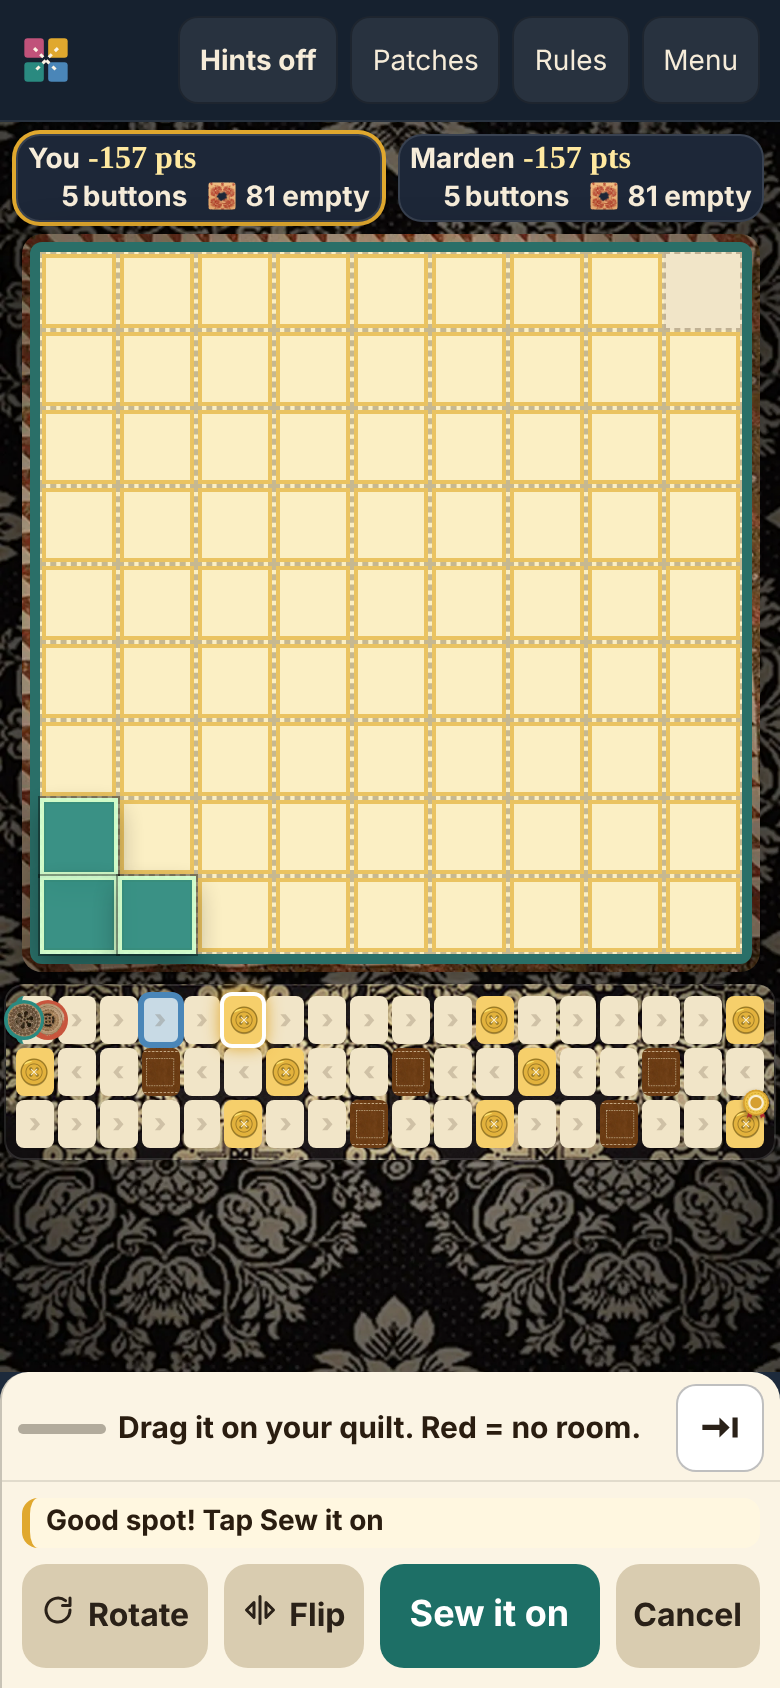
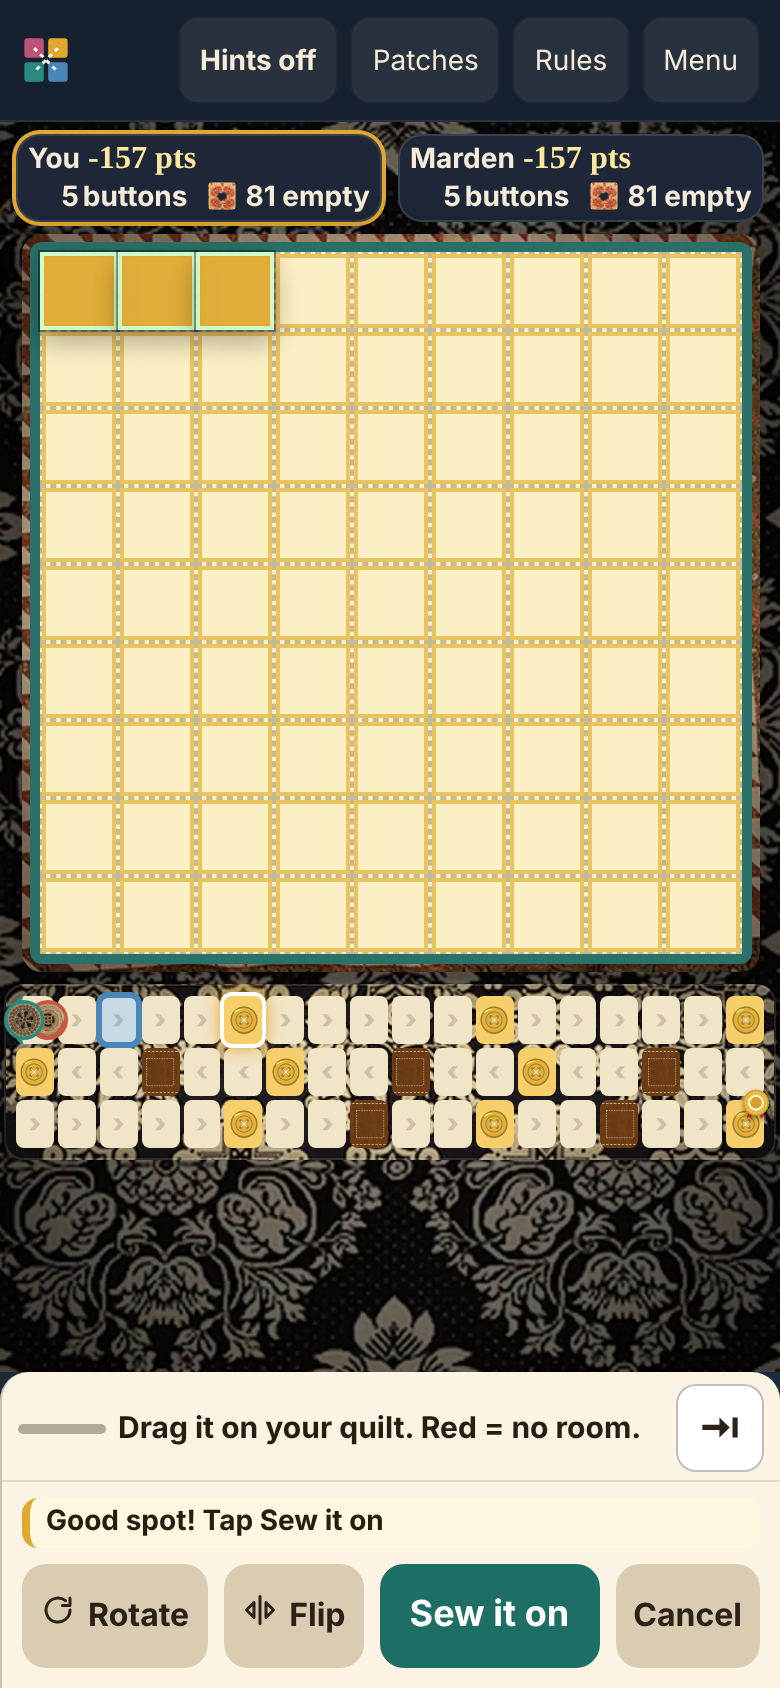
Stitchwise: drag a patch straight from its card onto the quilt
Press a glowing patch and drag: it becomes the ghost on your quilt and
snaps to the nearest legal spot on release; a plain tap still selects.
The first-turn hand moves off the prompt text. Adds the first-turn flow
shot (vs-benchmark.png).

diff --git a/games-src/stitchwise/src/ui2.js b/games-src/stitchwise/src/ui2.js
@@ -14,7 +14,7 @@ function drawGhost() { try { markLanding(); } catch (e) { }
   Array.prototype.forEach.call(q.querySelectorAll('.qc'), function (e, i) { e.classList.toggle('lg', !!lg[i]); });
 }
 function bestPlacement(pid, seat) { return aiBestPlace(G.board[seat], PATCHES[pid]); }
-function selectOffer(k) { if (UI.coach) setTimeout(function () { if (UI.sel >= 0) coachSay('pick', null, true); }, 0);
+function selectOffer(k) { if (UI.cdAt && Date.now() - UI.cdAt < 500) return; /* W484: the click that ends a card drag */ if (UI.coach) setTimeout(function () { if (UI.sel >= 0) coachSay('pick', null, true); }, 0);
   var s = swWho(G); if (G.over || UI.busy || !isHuman(s) || G.pend) return; var pid = swOffer(G)[k], p = PATCHES[pid]; if (pid == null) return;
   if (!tutAct({ what: 'offer', k: k })) return;
   if (UI.sel === k) { showPatch(pid); return; }
@@ -49,6 +49,12 @@ function bindQuilt() {
   var up = function (ev) { if (!DR.on) return; DR.on = false; var ok = ghostOk(); if (!ok) { snapNear(false); drawGhost(); } tutAct({ what: 'drop', valid: ghostOk() }); renderDockLight(); sfx('tick'); try { if (ghostOk() && navigator.vibrate) navigator.vibrate(12); } catch (e) { } };
   bd.addEventListener('pointerup', up); bd.addEventListener('pointercancel', up);
 }
+/* W484: drag a patch straight from its card onto the quilt (the benchmark app's first-turn gesture); a plain tap still selects */
+var CD = null;
+document.addEventListener('pointerdown', function (ev) { var b = ev.target.closest && ev.target.closest('#offers .offer.can'); CD = b && !UI.tutorial && UI.sel < 0 ? { k: +b.dataset.k, x: ev.clientX, y: ev.clientY, on: false } : null; });
+document.addEventListener('pointermove', function (ev) { if (!CD) return; if (!CD.on) { if (Math.abs(ev.clientX - CD.x) + Math.abs(ev.clientY - CD.y) < 14) return; selectOffer(CD.k); if (UI.sel !== CD.k) { CD = null; return; } CD.on = true; DR.touch = ev.pointerType === 'touch'; } dragTo(ev); ev.preventDefault(); }, { passive: false });
+var cdUp = function () { if (!CD) return; var was = CD.on; CD = null; if (!was) return; UI.cdAt = Date.now(); if (!ghostOk()) { snapNear(false); drawGhost(); } renderDockLight(); render(); sfx('tick'); try { if (ghostOk() && navigator.vibrate) navigator.vibrate(12); } catch (e) { } };
+document.addEventListener('pointerup', cdUp); document.addEventListener('pointercancel', cdUp);
 function dragTo(ev) { var c = cellAt(ev), cc = curCells(); if (!c || !cc) return; var b = bbox(cc); UI.gx = c[0] - Math.floor(b[0] / 2); UI.gy = c[1] - Math.floor(b[1] / 2) - (DR.touch ? 2 : 0); clampG(); var g = $('#ghost'); if (g) { var cs = UI.cs; g.style.left = UI.gx * cs + 'px'; g.style.top = UI.gy * cs + 'px'; var ok = ghostOk(); g.classList.toggle('ok', ok); g.classList.toggle('bad', !ok); } renderDockLight(); }
 document.addEventListener('keydown', function (e) { if (!G || UI.sel < 0 || GX.open || !UI.started) return; var k = e.key; if (k === 'r' || k === 'R') { rotate(); e.preventDefault(); } else if (k === 'f' || k === 'F') { flip(); e.preventDefault(); } else if (k === 'Enter') { confirmSew(); e.preventDefault(); } else if (k === 'Escape') { cancelSel(); } else if (k.indexOf('Arrow') === 0) { UI.gx += k === 'ArrowRight' ? 1 : k === 'ArrowLeft' ? -1 : 0; UI.gy += k === 'ArrowDown' ? 1 : k === 'ArrowUp' ? -1 : 0; clampG(); drawGhost(); e.preventDefault(); } });
 // ---------- moves

diff --git a/games-src/stitchwise/src/head.html b/games-src/stitchwise/src/head.html
@@ -351,7 +351,7 @@ html:not(.sm) .offer .ofx{grid-template-columns:1fr!important;gap:2px!important}
 html:not(.sm) .offer .of{justify-content:flex-start!important;padding:1px 6px!important}html:not(.sm) #prompt.w484q{display:none!important}
 html:not(.sm) #acts .btn{min-height:52px;font-size:16px;white-space:nowrap}html:not(.sm) #acts .btn.sm{padding-left:9px;padding-right:9px}html:not(.sm) #acts .btn.go{font-size:18px}
 html:not(.sm) .gx-dock-head .gx-dt{font-size:15px!important;color:#2a1d10}}
-.offer .hand{position:absolute;right:-8px;top:-12px;z-index:5;display:flex;flex-direction:column;align-items:center;animation:handb 1s ease-in-out infinite}
+.offer.can{touch-action:none}.offer .hand{position:absolute;right:-8px;top:8px;z-index:5;display:flex;flex-direction:column;align-items:center;animation:handb 1s ease-in-out infinite}
 .offer .hand i{font-style:normal;font-size:30px;line-height:1;filter:drop-shadow(0 2px 3px #0006)}
 .offer .hand b{font-size:14px;font-weight:800;background:#2a1d10;color:#fff;border-radius:6px;padding:0 6px;margin-top:-2px}
 @keyframes handb{50%{transform:translateY(-8px)}}
